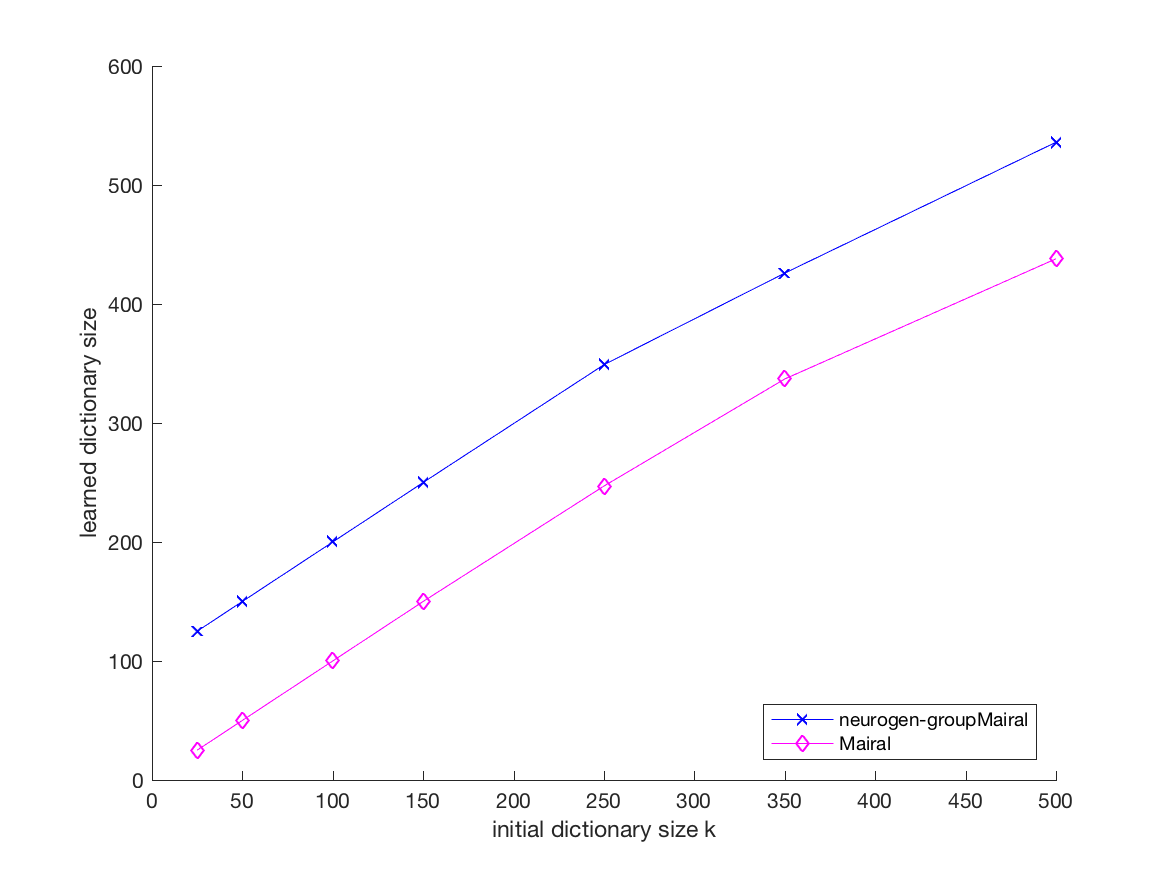
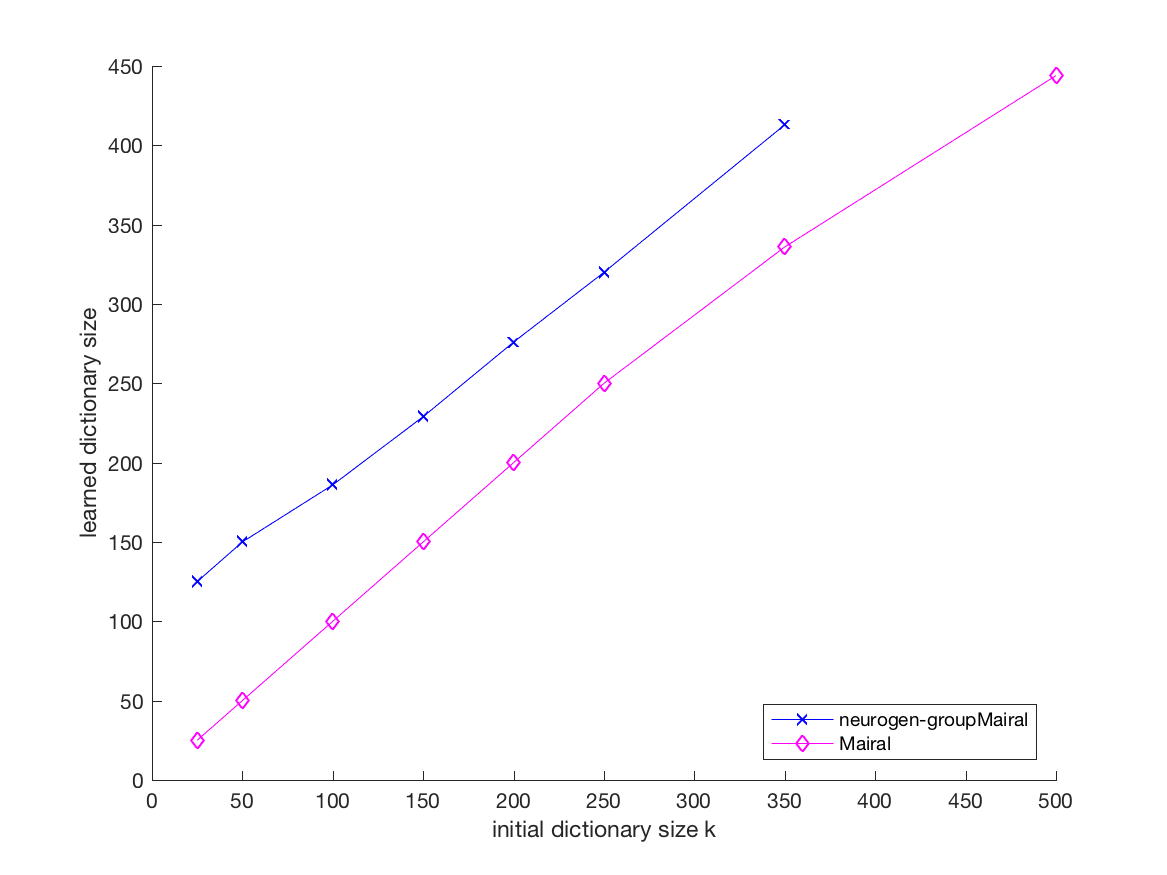
some recent small changes while running experiments on the nlp sparse data

diff --git a/NEUROGENESIS/updateD.m b/NEUROGENESIS/updateD.m
@@ -135,7 +135,7 @@ function  [D] = updateD(D_old,code,x,params,D_update_method,A,B)
                 end
                 %
                 max_diff = max(max(abs(Dprev-D)));
-                fprintf('max_diff: %f\n', max_diff);
+                fprintf('\nmax_diff: %f', max_diff);
                 if max_diff < params.epsilon
                     converged = 1;
                 end 
@@ -218,7 +218,7 @@ function  [D] = updateD(D_old,code,x,params,D_update_method,A,B)
                 end
                 % 
                 max_diff = max(max(abs(Dprev-D)));
-                fprintf('max_diff: %f\n', max_diff);
+                fprintf('\nmax_diff: %f', max_diff);
                 if max_diff < params.epsilon
                     converged = 1;
                 end
@@ -239,8 +239,10 @@ function u = sparsify_dictionary_element(u, params)
 %     tic;
     if strcmp(params.dictionary_element_sparse_algo, 'proximal')
         num_nonzero_dict_element = floor(params.nz_in_dict*n);
-        dict_element_lam = binary_search_threshold(u, num_nonzero_dict_element);
-        u = sign(u).*max(abs(u)-dict_element_lam, 0);
+        if num_nonzero_dict_element < n
+            dict_element_lam = binary_search_proximal_threshold(u, num_nonzero_dict_element, max(0.01*num_nonzero_dict_element, 1));
+            u = sign(u).*max(abs(u)-dict_element_lam, 0);
+        end
 %         fprintf(' dnnz: %d, ', nnz(u));
     elseif strcmp(params.dictionary_element_sparse_algo, 'lars')
         num_nonzero_dict_element = floor(params.nz_in_dict*n);
@@ -255,31 +257,4 @@ function u = sparsify_dictionary_element(u, params)
 %     if compute_time > 0.25
 %         fprintf('Time to compute a sparse, LARS based solution, was %f.\n', toc);
 %     end
-end
-
-function threshold = binary_search_threshold(u, num_nonzero_dict_element)
-%     fprintf('num_nonzero_dict_element: %d.\n', num_nonzero_dict_element);
-    % 
-    min_val = 0;
-    abs_u = abs(u);
-    max_val = max(abs_u);
-    %
-    while true
-        mean_val = (min_val+max_val)/2;
-        %
-        num_mean = nnz(max(abs_u-mean_val, 0));
-        %         
-%         fprintf('%d, ', num_mean);
-        %
-        if abs(num_mean-num_nonzero_dict_element) <= max(num_nonzero_dict_element*0.1, 10)
-            threshold = mean_val;
-            return;
-        elseif num_mean > num_nonzero_dict_element
-            min_val = mean_val;
-        elseif num_mean < num_nonzero_dict_element
-            max_val = mean_val;
-        else
-            error('This code block should not be executed. something wrong in the conditions above.\n');
-        end
-    end
 end

diff --git a/NEUROGENESIS/evaluation_functionality/init_parameters.m b/NEUROGENESIS/evaluation_functionality/init_parameters.m
@@ -2,25 +2,27 @@ function params = init_parameters()
     params = struct();
     %
     % 'patch', 'cifar', 'synthetic', 'nlp'
-    params.data_set_name = 'nlp';  % patches vs images
-    params.n = 17087;  % input size
-    params.T = 1000;  % total number of iterations/data samples
-    params.nonzero_frac = 0.003;
-    params.is_sparse_dictionary = true; % sparse columns (elements) in dictionary
-    % proximal vs LARS
-    params.dictionary_element_sparse_algo = 'proximal';
-    params.nz_in_dict = 0.001; % number of nonzeros in each dictionary element
-%     params.dict_element_lam = 1e0;
-    %     
-%     params.data_set_name = 'synthetic';  % patches vs images
-%     params.n = 1024;  % input size
-%     params.T = 100;  % total number of iterations/data samples
-%     params.nonzero_frac = 0.05;
+%     params.data_set_name = 'nlp';  % patches vs images
+%     params.n = 14547;  % input size
+%     params.T = 2000;  % total number of iterations/data samples
+%     params.coding_sparse_algo = 'proximal';
+%     params.nonzero_frac = 0.0003;
 %     % proximal vs LARS
 %     params.is_sparse_dictionary = true; % sparse columns (elements) in dictionary
 %     params.dictionary_element_sparse_algo = 'proximal';
-%     params.nz_in_dict = 0.05; % number of nonzeros in each dictionary element
-% %     params.dict_element_lam = 1e-1;
+%     params.nz_in_dict = 0.0003; % number of nonzeros in each dictionary element
+% %     params.dict_element_lam = 1e0;
+    %
+    params.data_set_name = 'synthetic';  % patches vs images
+    params.n = 10000;  % input size
+    params.T = 100;  % total number of iterations/data samples
+    params.coding_sparse_algo = 'proximal';
+    params.nonzero_frac = 0.05;
+    % proximal vs LARS
+    params.is_sparse_dictionary = true; % sparse columns (elements) in dictionary
+    params.dictionary_element_sparse_algo = 'proximal';
+    params.nz_in_dict = 0.05; % number of nonzeros in each dictionary element
+%     params.dict_element_lam = 1e-1;
     %     
     params.new_elements = 10;  % new elements added per each batch of data
     params.batch_size = 20;  % batch size
@@ -28,7 +30,7 @@ function params = init_parameters()
     %
     params.eta = 0.1;  % parameter for SG
     params.adapt='basic'; %'adapt';
-    params.epsilon = 1e-1; % convergence parameter for all methods
+    params.epsilon = 1e-2; % convergence parameter for all methods
     params.mu = 0;   %  sparsity parameter for dictionary sparsity - now used only in SG version
     params.data_type = 'Gaussian';
     params.noise = 5;  % not used right now, only in simulated data

diff --git a/NEUROGENESIS/sparse_coding.m b/NEUROGENESIS/sparse_coding.m
@@ -8,10 +8,9 @@ function [C,err,correl] = sparse_coding(x,D, params)
         end
     end
     %     
-    %     
     nonzero_frac = params.nonzero_frac;
     lambda2_C = params.lambda2_C;
-    %    
+    %
     k = size(D,2);
     C = [];
     nonzeros_C = floor(size(D, 1)*nonzero_frac);
@@ -22,13 +21,28 @@ function [C,err,correl] = sparse_coding(x,D, params)
             %% not sure if the normalization and the centering being done along correct dimensions.
             D1 = normalize(D);
             y = center(x(:,i));
-            betas = larsen(D1, y, lambda2_C, -nonzeros_C, 0);
-            sol = betas(end,:)';
+            %
+            if strcmp(params.coding_sparse_algo, 'lars')
+                betas = larsen(D1, y, lambda2_C, -nonzeros_C, 0);
+                sol = betas(end,:)';
+            elseif strcmp(params.coding_sparse_algo, 'proximal')
+                [sol, ~] = lsqr(D1, y);
+                if nonzeros_C < k
+                    sparse_coding_lam = binary_search_proximal_threshold(sol, nonzeros_C, max(0.01*nonzeros_C, 1));
+                    sol = sign(sol).*max(abs(sol)-sparse_coding_lam, 0);
+%                     fprintf('\nsc-nnz: %d', nnz(sol));
+                end
+            else
+                error('no such method for codings sparsity.')
+            end
             assert(~nnz(isnan(sol)));
+            assert(nnz(sol) ~= 0);
+            %             
             res = y-D1*sol;
             err(i) = res'*res;
             nonzeros(i) = nonzeros_C;
         else
+            error('Sahil: this code block is not executed currently, and does not seem right. So, also the recent changes on proximal based sparsity implemented only for the above block and not this one.')
             % if no sparsity level is specified (nonzeros_C = -1), choose best-fitting sparsity for a given sample
             betas = larsen(D, x(:,i), lambda2_C, -k, 0);
             all_res = repmat(x(:,i),1,size(betas,1)) - predicted;
@@ -43,7 +57,9 @@ function [C,err,correl] = sparse_coding(x,D, params)
         C = [C sol];
         assert(~nnz(isnan(C)));
     end
+    %     
     correl = [correl_Spearman; correl_Pearson];
+    assert(~nnz(isnan(correl)));
     %
     if params.is_sparse_computations
         if ~issparse(C)
@@ -51,3 +67,4 @@ function [C,err,correl] = sparse_coding(x,D, params)
         end
     end
 end
+

diff --git a/NEUROGENESIS/synthetic_sparse_data.m b/NEUROGENESIS/synthetic_sparse_data.m
@@ -1,19 +1,34 @@
 function [ train_data_1, test_data_1, train_data_2, test_data_2 ] = synthetic_sparse_data(input_dim, T1, T2)
     ratio_num_nonzeros = 0.01;
+    ratio_num_nonzeros_off_diagonal = 0;
+    %     
     num_nonzeros = floor(ratio_num_nonzeros*input_dim); clear ratio_num_nonzeros;
+    num_nonzeros_off_diagonal = floor(ratio_num_nonzeros_off_diagonal*input_dim); clear ratio_num_nonzeros_off_diagonal;
     %
     % train_data_1
     train_data_1 = zeros(input_dim, T1);
     train_data_1(1:input_dim/2, :) = sample_sparse_data(T1, input_dim/2, num_nonzeros);
+    if num_nonzeros_off_diagonal > 0
+        train_data_1(input_dim/2+1:end, :) = sample_sparse_data(T1, input_dim/2, num_nonzeros_off_diagonal);
+    end
     %
     test_data_1 = zeros(input_dim, T1);
     test_data_1(1:input_dim/2, :) = sample_sparse_data(T1, input_dim/2, num_nonzeros);
+    if num_nonzeros_off_diagonal > 0
+        test_data_1(input_dim/2+1:end, :) = sample_sparse_data(T1, input_dim/2, num_nonzeros_off_diagonal);
+    end
     %
     train_data_2 = zeros(input_dim, T2); 
     train_data_2(input_dim/2+1:end, :) = sample_sparse_data(T2, input_dim/2, num_nonzeros);
-    % 
+    if num_nonzeros_off_diagonal > 0
+        train_data_2(1:input_dim/2, :) = sample_sparse_data(T2, input_dim/2, num_nonzeros_off_diagonal);
+    end
+    %
     test_data_2 = zeros(input_dim, T2);
     test_data_2(input_dim/2+1:end, :) = sample_sparse_data(T2, input_dim/2, num_nonzeros);
+    if num_nonzeros_off_diagonal > 0
+        test_data_2(1:input_dim/2, :) = sample_sparse_data(T2, input_dim/2, num_nonzeros_off_diagonal);
+    end
 end
 
 function data = sample_sparse_data(T, input_dim, num_nonzeros)

diff --git a/NEUROGENESIS/binary_search_proximal_threshold.m b/NEUROGENESIS/binary_search_proximal_threshold.m
@@ -1,0 +1,39 @@
+function threshold = binary_search_proximal_threshold(u, num_nonzero_dict_element, sparsity_margin)
+%     fprintf('\nnum_nonzero_dict_element: %d. ', num_nonzero_dict_element);
+    %
+    assert(num_nonzero_dict_element < length(u));
+    %
+    min_val = 0;
+    abs_u = abs(u);
+    max_val = max(abs_u);
+    %
+%     count = 0;
+    while true
+        % 
+        mean_val = (min_val+max_val)/2;
+        num_mean = nnz(max(abs_u-mean_val, 0));
+%         fprintf('%d, ', num_mean);
+        %
+        if abs(max_val-min_val) < 1e-4
+            threshold = mean_val;
+            return;
+        end
+%         count = count + 1;
+%         if count > 100
+%             threshold = mean_val;
+%             assert(abs(num_mean-num_nonzero_dict_element) <= sparsity_margin*2);
+%             return;            
+%         end
+        %
+        if abs(num_mean-num_nonzero_dict_element) <= sparsity_margin
+            threshold = mean_val;
+            return;
+        elseif num_mean > num_nonzero_dict_element
+            min_val = mean_val;
+        elseif num_mean < num_nonzero_dict_element
+            max_val = mean_val;
+        else
+            error('This code block should not be executed. something wrong in the conditions above.\n');
+        end
+    end
+end

diff --git a/NEUROGENESIS/get_sparse_nlp_data.m b/NEUROGENESIS/get_sparse_nlp_data.m
@@ -1,10 +1,11 @@
 function [ train_data_1, test_data_1, train_data_2, test_data_2 ] = get_sparse_nlp_data()
-    load('data_adjacency_matrix_bio_economics.mat');
-%     load('data_adjacency_matrix.mat');
+    load('data_adjacency_matrix_bio_economics_selected.mat');
+    data_adjacency_matrix = data_adjacency_matrix_selected;
+    clear data_adjacency_matrix_selected;
 %     
 % 
-    data2 = data_adjacency_matrix(:, 1:2000);
-    data1 = data_adjacency_matrix(:, 15001:17000);
+    data2 = data_adjacency_matrix(:, 1:4000);
+    data1 = data_adjacency_matrix(:, 10501:14500);
     train_data_1 = data1(:, 1:2:end);
     test_data_1 = data1(:, 2:2:end);
     clear data1;

diff --git a/NEUROGENESIS/DL.m b/NEUROGENESIS/DL.m
@@ -134,7 +134,7 @@ function [D,A, B, err,correl_all] = DL(data, D0, params, D_update_method, A, B)
         tic;
         D = updateD(D, code, x, params, D_update_method, A, B);
         %         
-        fprintf('Number of seconds to update the dictionary was %f.\n', toc);
+        fprintf('\nNumber of seconds to update the dictionary was %f.\n', toc);
         %
         if (strcmp(D_update_method, 'GroupMairal')) || (strcmp(D_update_method, 'SG') && (params.lambda_D ~= 0))
             [~,ind] = find(sum(abs(D)));

diff --git a/NEUROGENESIS/evaluation_functionality/get_dictionary_size_list_fr_algorithms.m b/NEUROGENESIS/evaluation_functionality/get_dictionary_size_list_fr_algorithms.m
@@ -1,10 +1,10 @@
 function [dictionary_sizes] = get_dictionary_size_list_fr_algorithms(algorithms)
     dictionary_sizes = struct();
     %
-    global_size = [25 50 100 150];
+    global_size = [25 50 100 150 200 250 350];
     %
     if algorithms.mairal
-        dictionary_sizes.mairal = [global_size 250 350];
+        dictionary_sizes.mairal = [global_size 500];
     end
     %
     if algorithms.random

diff --git a/NEUROGENESIS/evaluation_functionality/evaluate_online.m b/NEUROGENESIS/evaluation_functionality/evaluate_online.m
@@ -16,6 +16,8 @@ function evaluate_online(is_hpcc, curr_core)
     end
     %     
     model = adapt_model(model, model.datasets_map.data_st_train);
+    save(strcat(dir_path, 'old_model'), 'model');
+    %     
     model = adapt_model(model, model.datasets_map.data_nst_train);
     %     
     model.evaluation = evaluate_model(model);
